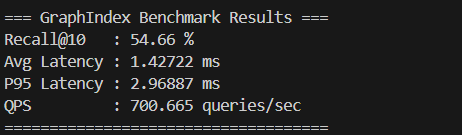
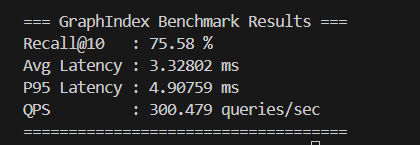
Update README for test results

diff --git a/tools/run_benchmark_graph.cpp b/tools/run_benchmark_graph.cpp
@@ -30,9 +30,9 @@ int main(int argc, char** argv) {
   flat_index.build(store);
 
   // 3. 构建 GraphIndex (单层 NSW 测试对象)
-  std::cout << "[3/4] Building GraphIndex (M=16, ef_search=10)...\n";
+  std::cout << "[3/4] Building GraphIndex (M=16, ef_search=50)...\n";
   utils::Timer build_timer;
-  index::GraphIndex graph_index(16, 10);
+  index::GraphIndex graph_index(16, 50);
   graph_index.build(store);
   std::cout << "      Graph build time: " << build_timer.elapsed_ms() << " ms\n";
 

diff --git a/README.md b/README.md
@@ -98,4 +98,6 @@ GraphIndex测试结果（NSW架构）
 
 ![alt text](image-1.png)
 
-ANN测试结果（HNSW架构）
+ANN测试结果（初级HNSW架构）
+
+![alt text](image-2.png)
